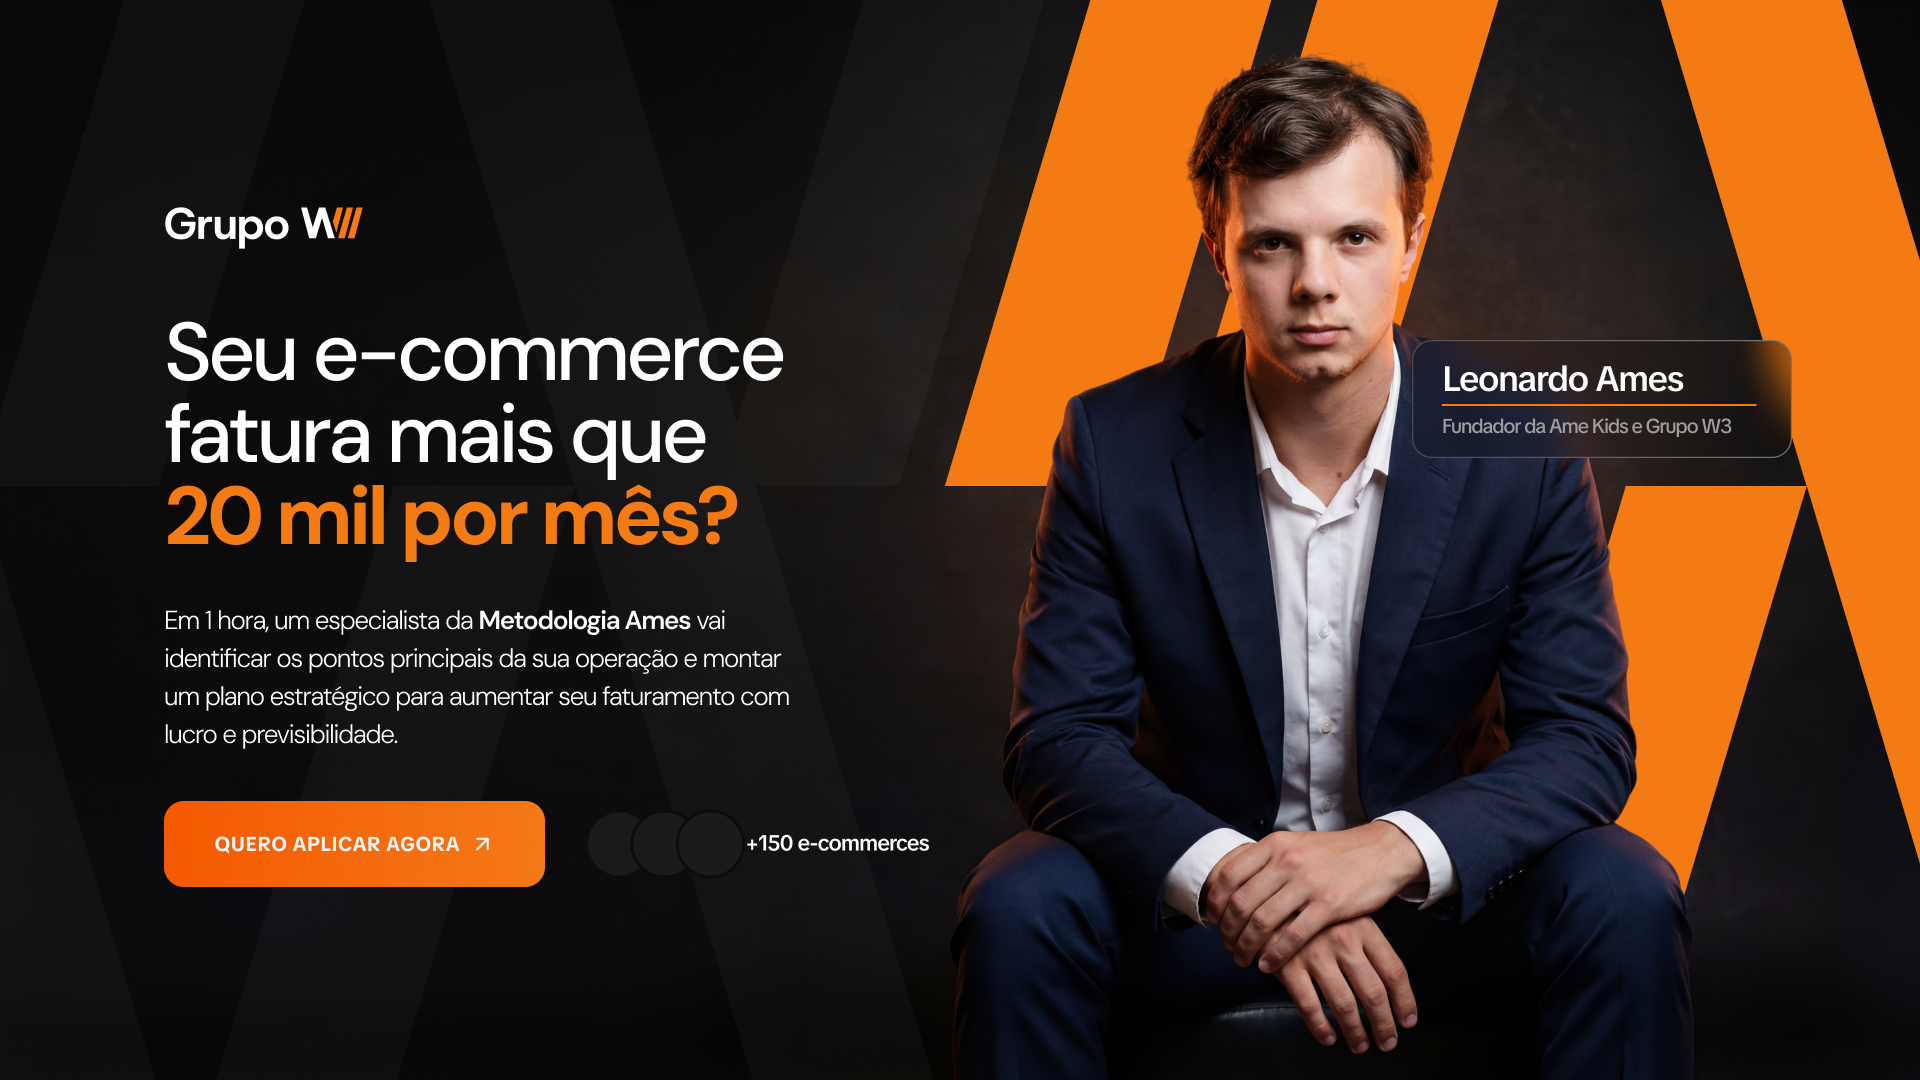
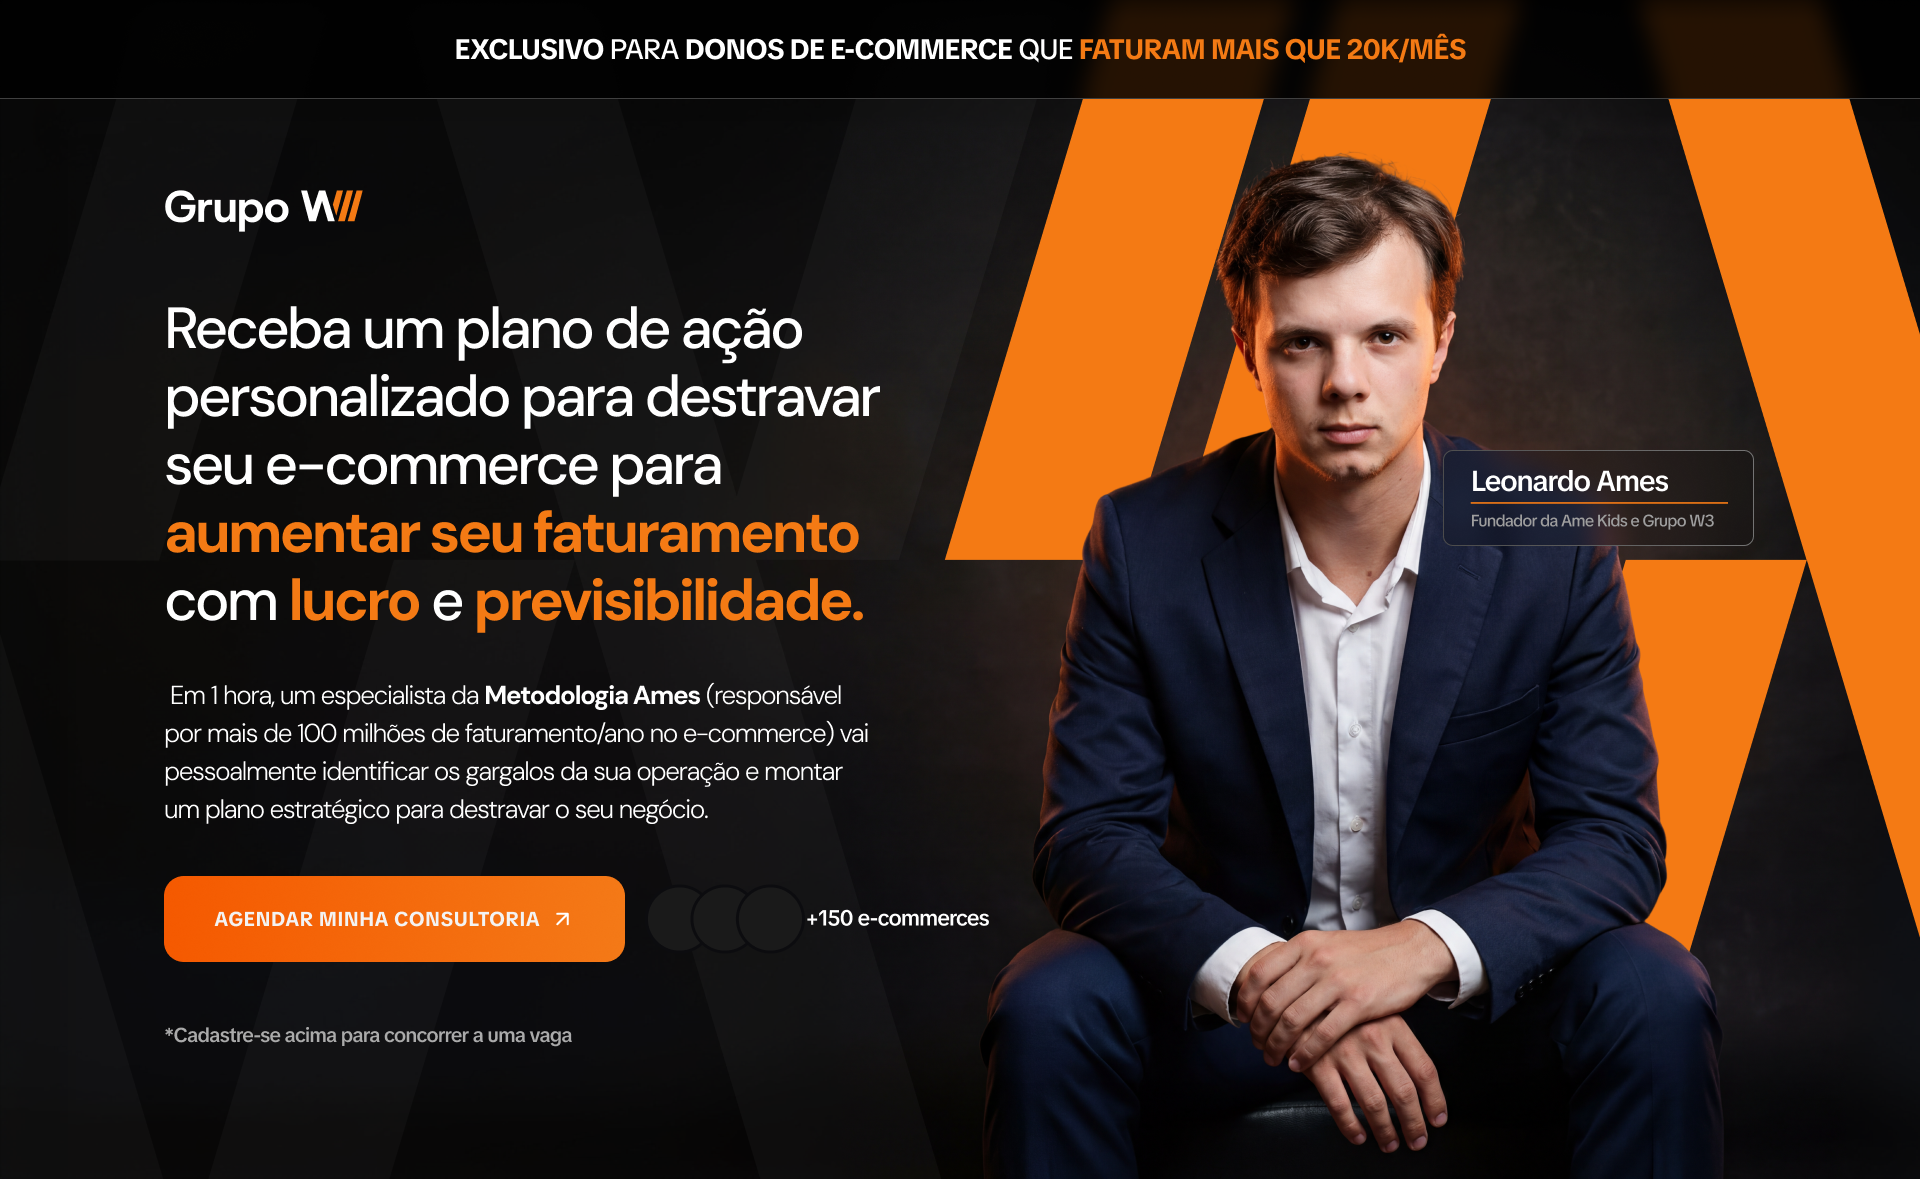
update: new hero images v2 and CTA text to AGENDAR MINHA CONSULTORIA
- Replaced Hero-Desktop.png and Hero-Mobile.png with updated Figma v2 designs
- Updated hero CTA button text from "QUERO APLICAR AGORA" to "AGENDAR MINHA CONSULTORIA"

diff --git a/index.html b/index.html
@@ -1377,7 +1377,7 @@
             </picture>
         </div>
         <div class="hero-cta-wrapper">
-            <a href="#agendar" class="hero-cta">QUERO APLICAR AGORA <i class="hgi-stroke hgi-arrow-up-right-01"></i></a>
+            <a href="#agendar" class="hero-cta">AGENDAR MINHA CONSULTORIA <i class="hgi-stroke hgi-arrow-up-right-01"></i></a>
         </div>
     </section>
 
